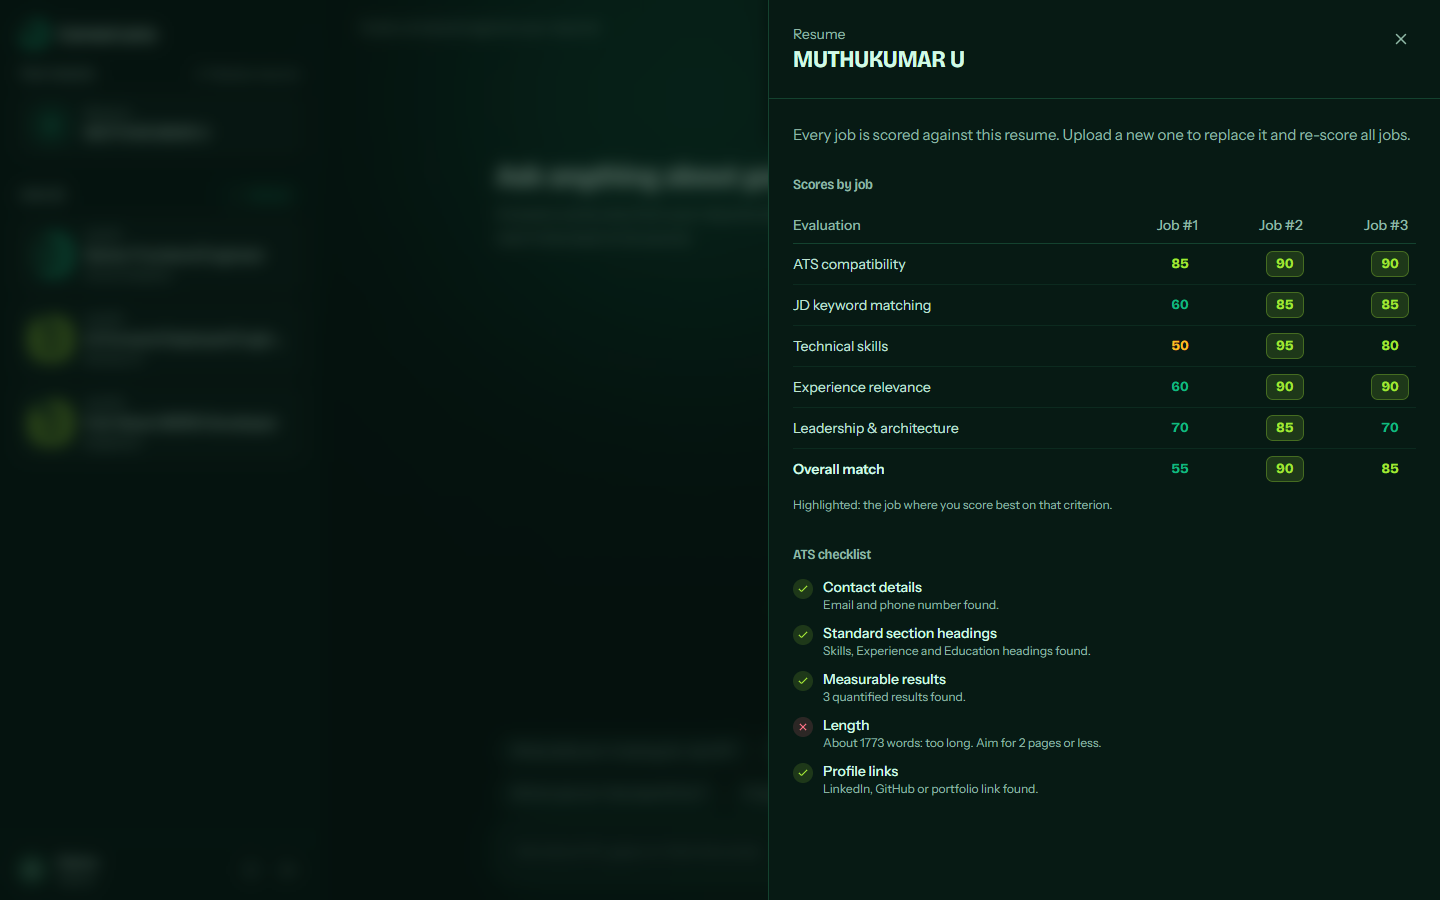
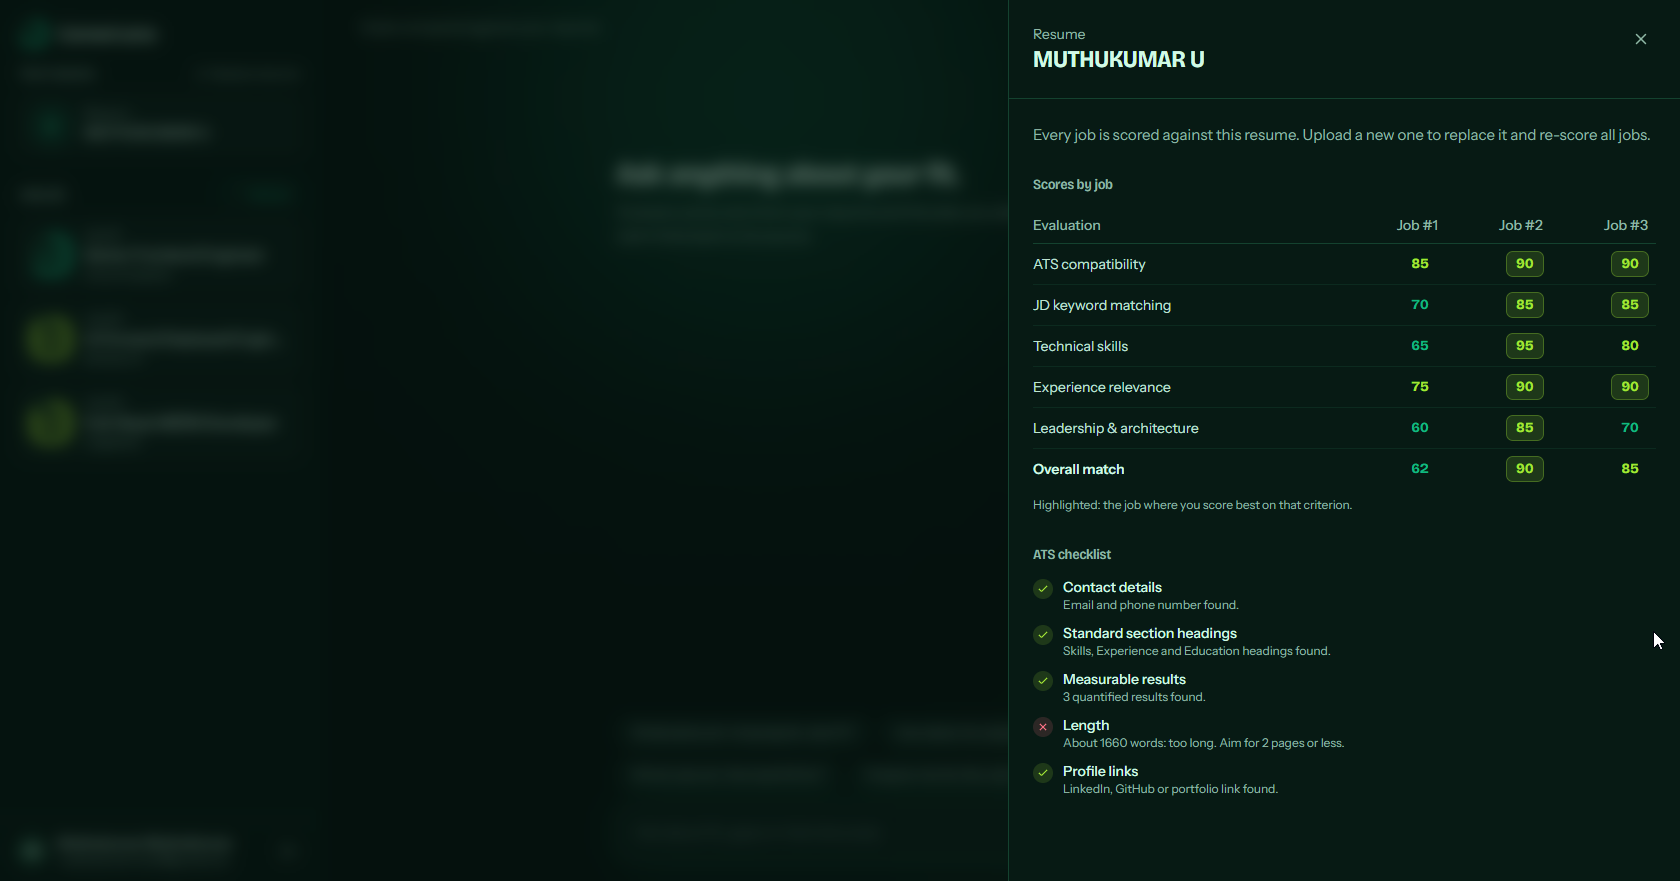
docs: live demo link and updated resume evaluation screenshot

diff --git a/README.md b/README.md
@@ -6,6 +6,9 @@ names the skills you're missing, and answers questions such as *"What am I missi
 
 Built for the Newpage Solutions AI FDE assignment (Option 4: Career Intelligence Assistant).
 
+**Live demo:** https://p01--frontend--g6dls6wx7pbl.code.run (Northflank; the free tier may take a few seconds to wake up).
+Create an account, then click **Try with sample data**.
+
 ![Chat with citations](docs/screenshots/03-chat-citations.png)
 
 | Sign in (email or Google) | Fit drawer | Admin and usage |
